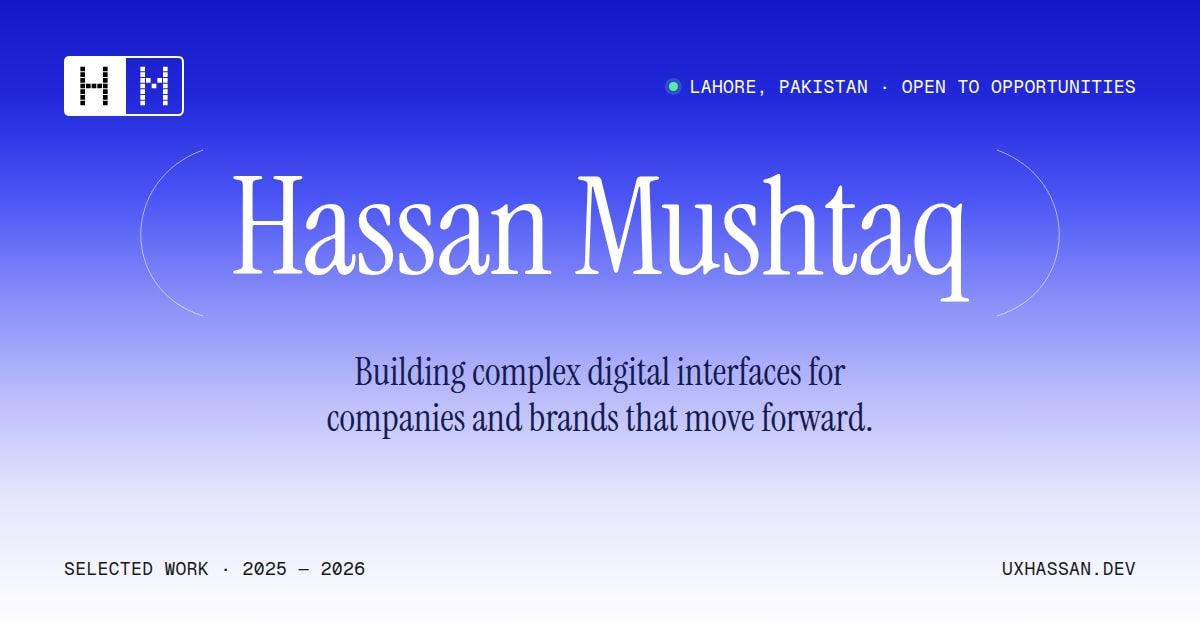
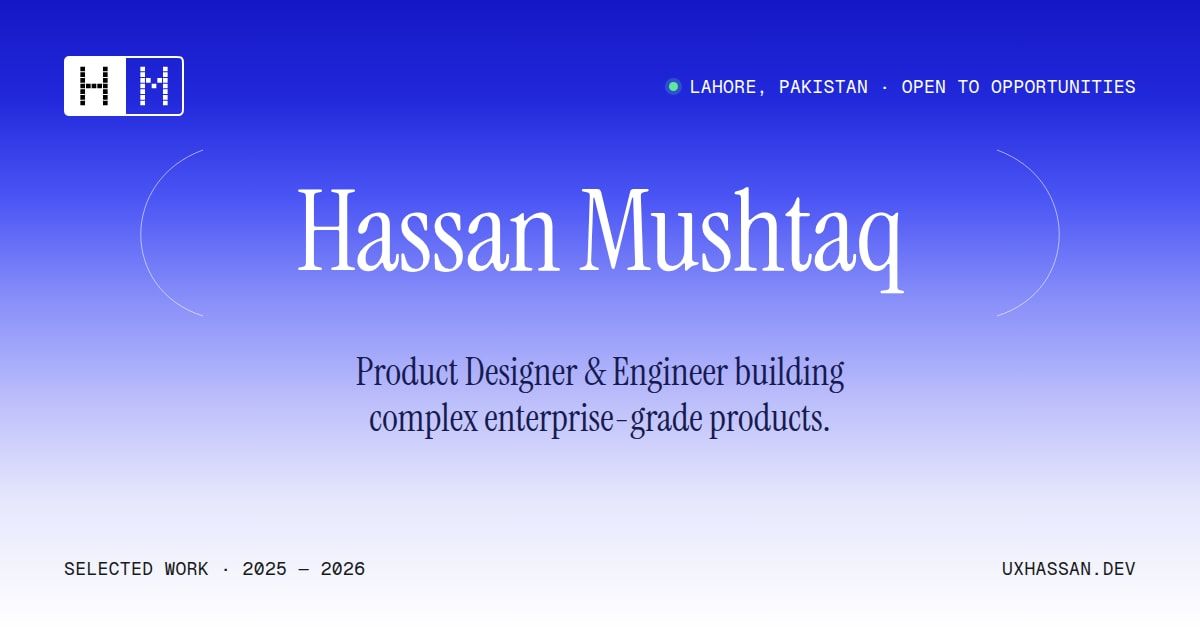
Share preview: smaller name, enterprise-grade description
Claude-Session: https://claude.ai/code/session_01UPEmo24e9KkKQJSVw98dss

Changed region(s): [[0.185, 0.2714, 0.8017, 0.4825], [0.2775, 0.5429, 0.74, 0.6937]]

diff --git a/src/content/profile.ts b/src/content/profile.ts
@@ -11,7 +11,7 @@ export const profile = {
   availability: "Open to opportunities",
   title: "Hassan Mushtaq — Product Designer & Engineer",
   description:
-    "Senior product designer and engineer in Lahore, building complex digital interfaces for companies and brands that move forward.",
+    "Product Designer & Engineer building complex enterprise-grade products.",
   socialLinks: [
     { label: "LinkedIn", href: "https://www.linkedin.com/in/uxhassan/" },
     { label: "Behance", href: "https://www.behance.net/uxhassan" },
